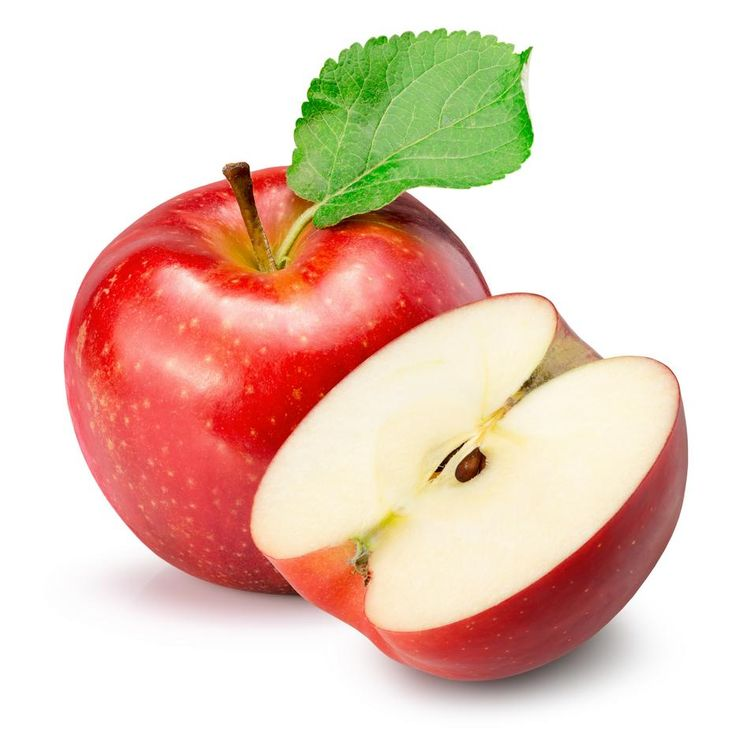
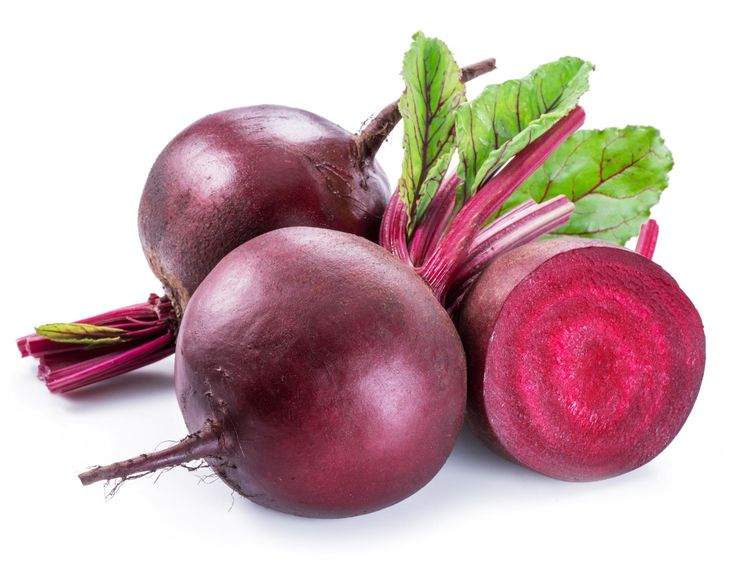
feat: implement homepage, product detail, and about routes with supporting assets and product data configurations

diff --git a/src/lib/products.ts b/src/lib/products.ts
@@ -14,6 +14,7 @@ export interface Product {
   name: string;
   brand: string;
   description: string;
+  description1?: string;
   shortDescription: string;
   category: string;
   image: string;
@@ -36,6 +37,7 @@ export const products: Product[] = [
     name: "ABC Capsules",
     brand: "Sathyaveda",
     description: "Sathyaveda ABC Powder capsule is formulated out of 3 exotic pure fruits that are well documented and tested for heavy metals in compliance with natural standards.",
+    description1: "Nurtured by Mountain Mists: Ooty's Vibrant Carrots and Ruby Beetroots",
     shortDescription: "Formulated out of 3 exotic pure fruits for daily harmony.",
     category: "Wellness",
     image: abcPowder,
@@ -44,7 +46,7 @@ export const products: Product[] = [
     originalPrice: "₹2450",
     rating: 4.8,
     variants: [
-    { size: "60 Veg capsules", price: "₹950" }
+      { size: "60 Veg capsules", price: "₹950" }
     ],
     benefits: [
       "Supports weight management and heart health",
@@ -53,7 +55,7 @@ export const products: Product[] = [
       "Pure, natural, safe and effective with no additives",
     ],
     ingredients: ["Apple", "Beetroot", "Carrot"],
-    howToUse: "2 Capsule Daily for 120 days. Take ABC Capsule with 1 glass Water or Milk after food.",
+    howToUse: "Minimum 2 Capsule Daily for 120 days. Take ABC Capsule with 1 glass Water or Milk after food.",
     longDescriptionHTML: `
       <div class="space-y-6 text-sm text-foreground/80 leading-relaxed">
         <p><strong>Sathyaveda ABC Powder capsule</strong> is formulated out of 3 exotic pure fruits that are well documented and tested for heavy metals in compliance with Natural standards. The product is made of natural fruits from selected Apple, Beetroot and Carrot.</p>
@@ -103,7 +105,7 @@ export const products: Product[] = [
       </div>
     `,
   },
-    {
+  {
     id: "veda-chargex",
     name: "Veda ChargeX",
     brand: "Sathyaveda",
@@ -127,7 +129,7 @@ export const products: Product[] = [
       "Reduces the ageing process and acts as an allround immunity enhancer",
     ],
     ingredients: ["Drumstick Extract : 300 mg", "Safed Musli : 50 mg", "Ashwagandha : 50 mg", "Gooseberry : 50 mg", "Dates Seed : 50 mg"],
-    howToUse: "2 Caps Daily for 120 days. Take Veda ChargeX Capsule with 1 glass Water or Milk after food.",
+    howToUse: "Minimum 2 Capsule Daily for 120 days. Take Veda ChargeX Capsule with 1 glass Water or Milk after food.",
     longDescriptionHTML: `
       <div class="space-y-6 text-sm text-foreground/80 leading-relaxed">
         <p><strong>VEDA CHARGEX</strong> is formulated out of five Exotic Herbs that are well documented in Ayurvedic texts.</p>
@@ -205,6 +207,7 @@ export const products: Product[] = [
     name: "Almonds 250g",
     brand: "Sathyaveda",
     description: "Carefully selected premium almonds with a rich, wholesome character prized for daily nourishment.",
+    description1: "CALIFORNIA ALMONDS A GRADE EXPORT QUALITY",
     shortDescription: "Delicately sourced premium almonds.",
     category: "Nutrient Rich",
     image: badam,
@@ -229,6 +232,7 @@ export const products: Product[] = [
     name: "Cashew 1kg",
     brand: "Sathyaveda",
     description: "Premium cashews sourced for their smooth, rich texture and high nutritional value.",
+    description1:"RICH CASHEWS 180 GRADE EXPORT QUALITY",
     shortDescription: "180 grade whole cashews, rich in protein and essential minerals.",
     category: "Premium Nuts",
     image: cashew,

diff --git a/src/routes/index.tsx b/src/routes/index.tsx
@@ -340,18 +340,19 @@ function Home() {
                   );
                 })}
               </CarouselContent>
-              <div className="absolute bottom-8 left-1/2 -translate-x-1/2 flex items-center gap-2 z-20">
-                {heroBanners.map((_, index) => (
-                  <button
-                    key={index}
-                    onClick={() => heroCarouselApi?.scrollTo(index)}
-                    className={`h-1.5 w-1.5 rounded-full transition-all duration-300 ${currentSlide === index ? "bg-white" : "bg-white/50 hover:bg-white/75"
-                      }`}
-                    aria-label={`Go to slide ${index + 1}`}
-                  />
-                ))}
-              </div>
             </Carousel>
+          </div>
+          {/* Dot indicators – placed outside the z-0 carousel container so they're clickable above the gradient overlays */}
+          <div className="absolute bottom-8 left-1/2 -translate-x-1/2 flex items-center gap-2 z-30">
+            {heroBanners.map((_, index) => (
+              <button
+                key={index}
+                onClick={() => heroCarouselApi?.scrollTo(index)}
+                className={`h-1.5 w-1.5 rounded-full transition-all duration-300 ${currentSlide === index ? "bg-white" : "bg-white/50 hover:bg-white/75"
+                  }`}
+                aria-label={`Go to slide ${index + 1}`}
+              />
+            ))}
           </div>
           <div className="absolute inset-0 z-10 bg-gradient-to-r from-black/60 via-black/30 to-transparent pointer-events-none" />
           <div className="absolute inset-0 z-10 bg-gradient-to-t from-black/50 via-transparent to-transparent pointer-events-none" />
@@ -437,7 +438,7 @@ function Home() {
               {/* Left: Text */}
               <Reveal as="div" animation="slide-right" className="flex flex-col gap-4 py-12 pr-10 min-w-0">
                 <span className="inline-flex self-start items-center text-brand-green bg-brand-green/10 font-semibold tracking-widest text-[10px] uppercase px-3 py-1 rounded-sm">Special Offer</span>
-                <h2 className="font-display text-3xl xl:text-5xl text-brand-green-dark leading-tight">40 Liter Free<br />Tourister Bag</h2>
+                <h2 className="font-display text-3xl xl:text-5xl text-brand-green-dark leading-tight">40 Litre Free<br />Tourister Bag</h2>
                 <div className="flex items-center gap-3">
                   <div className="h-px w-10 bg-brand-green-dark/20" />
                   <Leaf className="h-4 w-4 text-brand-green-dark opacity-60" />

diff --git a/src/routes/about.tsx b/src/routes/about.tsx
@@ -7,13 +7,19 @@ import { SeoHead, buildBreadcrumbSchema } from "@/components/site/SeoHead";
 import { Carousel, CarouselContent, CarouselItem, CarouselPrevious, CarouselNext, type CarouselApi } from "@/components/ui/carousel";
 import aboutImg1 from "@/assets/about/about1.jpeg";
 import aboutImg2 from "@/assets/about/about2.jpeg";
+import aboutImg3 from "@/assets/about/about3.jpeg";
+import aboutImg4 from "@/assets/about/about4.jpeg";
+import aboutImg5 from "@/assets/about/about5.png";
 import { ArrowRight, Link2, CheckCircle2 } from "lucide-react";
 import imgKudumbashree from "@/assets/Kudumbashree.png";
 
-const aboutImages = [aboutImg1, aboutImg2];
+const aboutImages = [aboutImg1, aboutImg2, aboutImg3, aboutImg4, aboutImg5];
 const aboutAlts = [
   "Sathyaveda Herbals Ayurvedic manufacturing",
   "Sathyaveda Herbals natural botanical ingredients",
+  "Sathyaveda Herbals Kerala herbal production",
+  "Sathyaveda Herbals traditional wellness crafting",
+  "Sathyaveda Herbals authentic Ayurvedic products",
 ];
 
 function AboutPage() {

diff --git a/src/routes/product.$productId.tsx b/src/routes/product.$productId.tsx
@@ -154,6 +154,9 @@ function ProductDetailPage() {
               </div>
 
               <p className="text-sm text-muted-foreground leading-relaxed">{product.description}</p>
+              {product.description1 && (
+                <p className="mt-2 text-sm font-semibold text-muted-foreground leading-relaxed">{product.description1}</p>
+              )}
             </div>
 
             {/* Desktop Layout (Visible only on laptop/desktop) */}
@@ -163,6 +166,9 @@ function ProductDetailPage() {
               </div>
               <h1 className="mt-3 font-display text-5xl text-brand-green-dark">{product.name}</h1>
               <p className="mt-2 text-lg text-muted-foreground">{product.description}</p>
+              {product.description1 && (
+                <p className="mt-2 text-lg font-semibold text-muted-foreground">{product.description1}</p>
+              )}
 
               <div className="mt-6">
                 <div className="flex items-center gap-2.5 mb-5">
